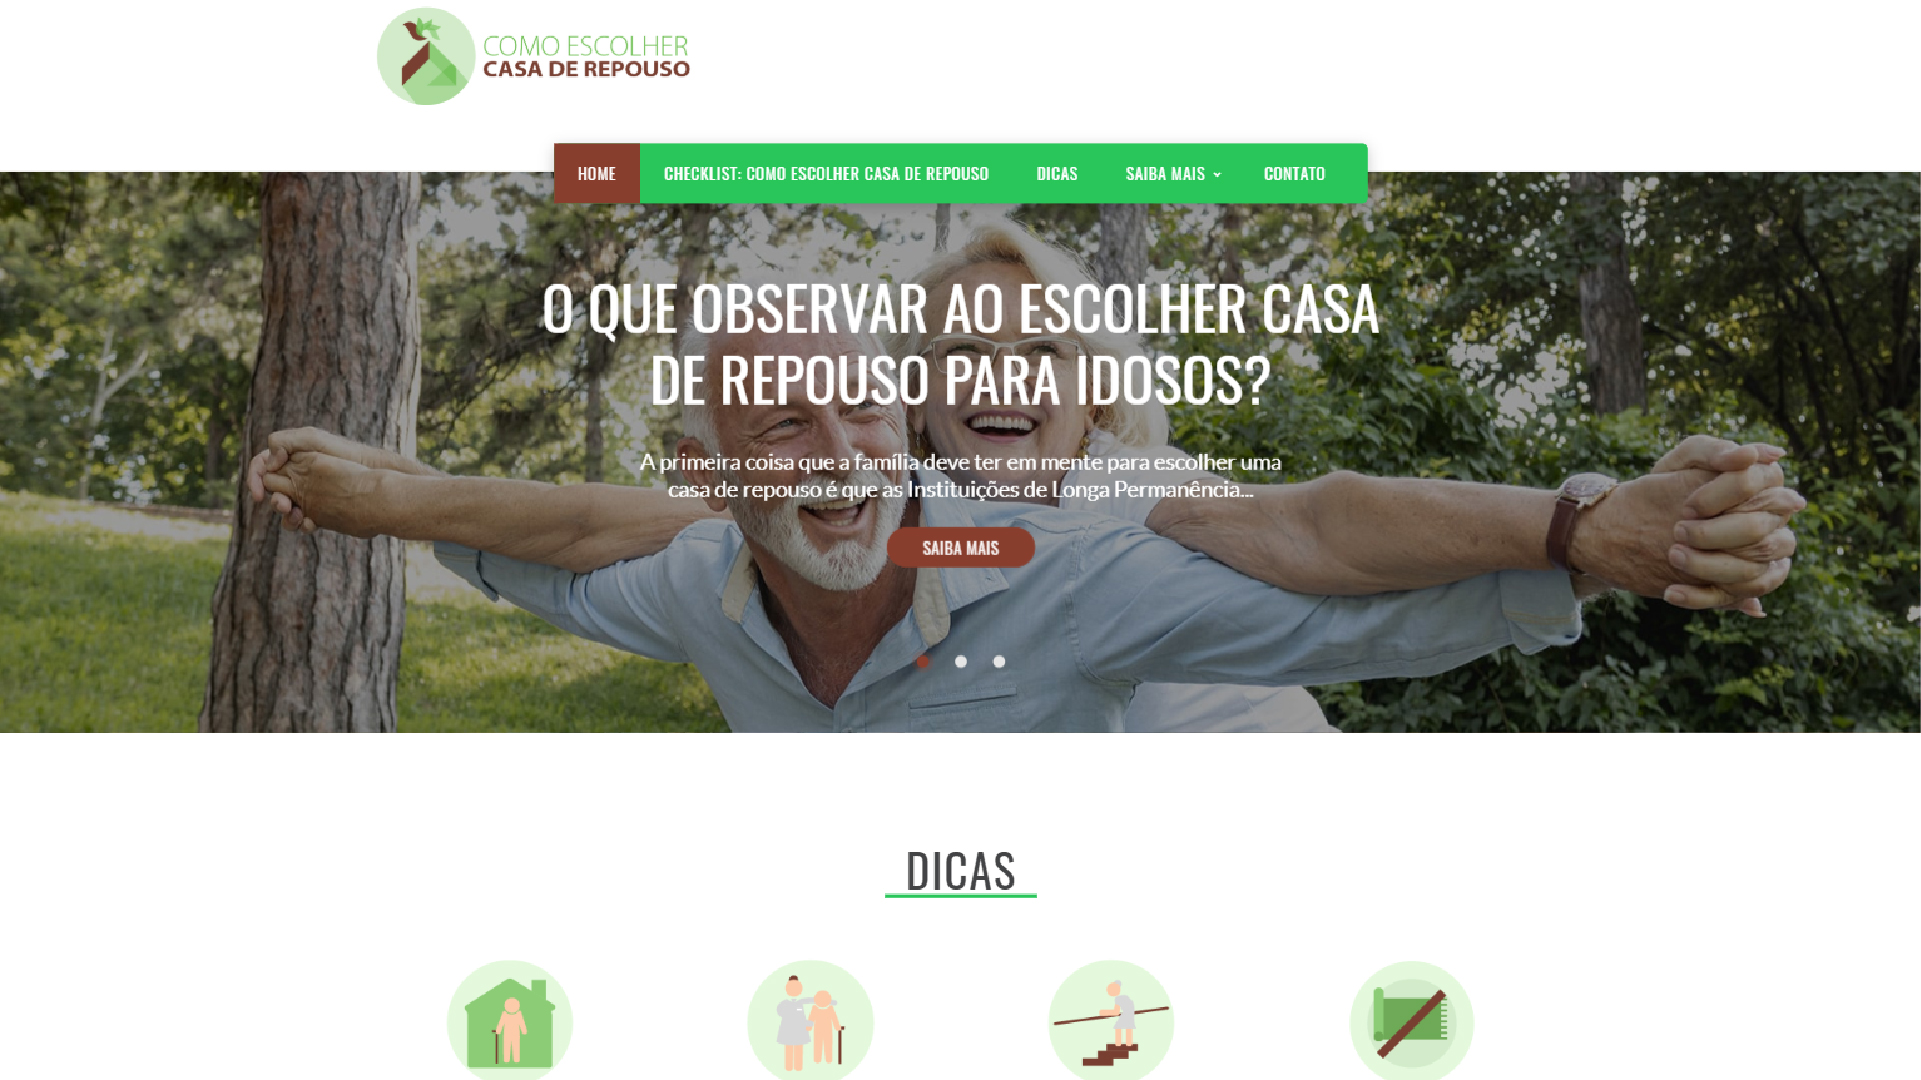
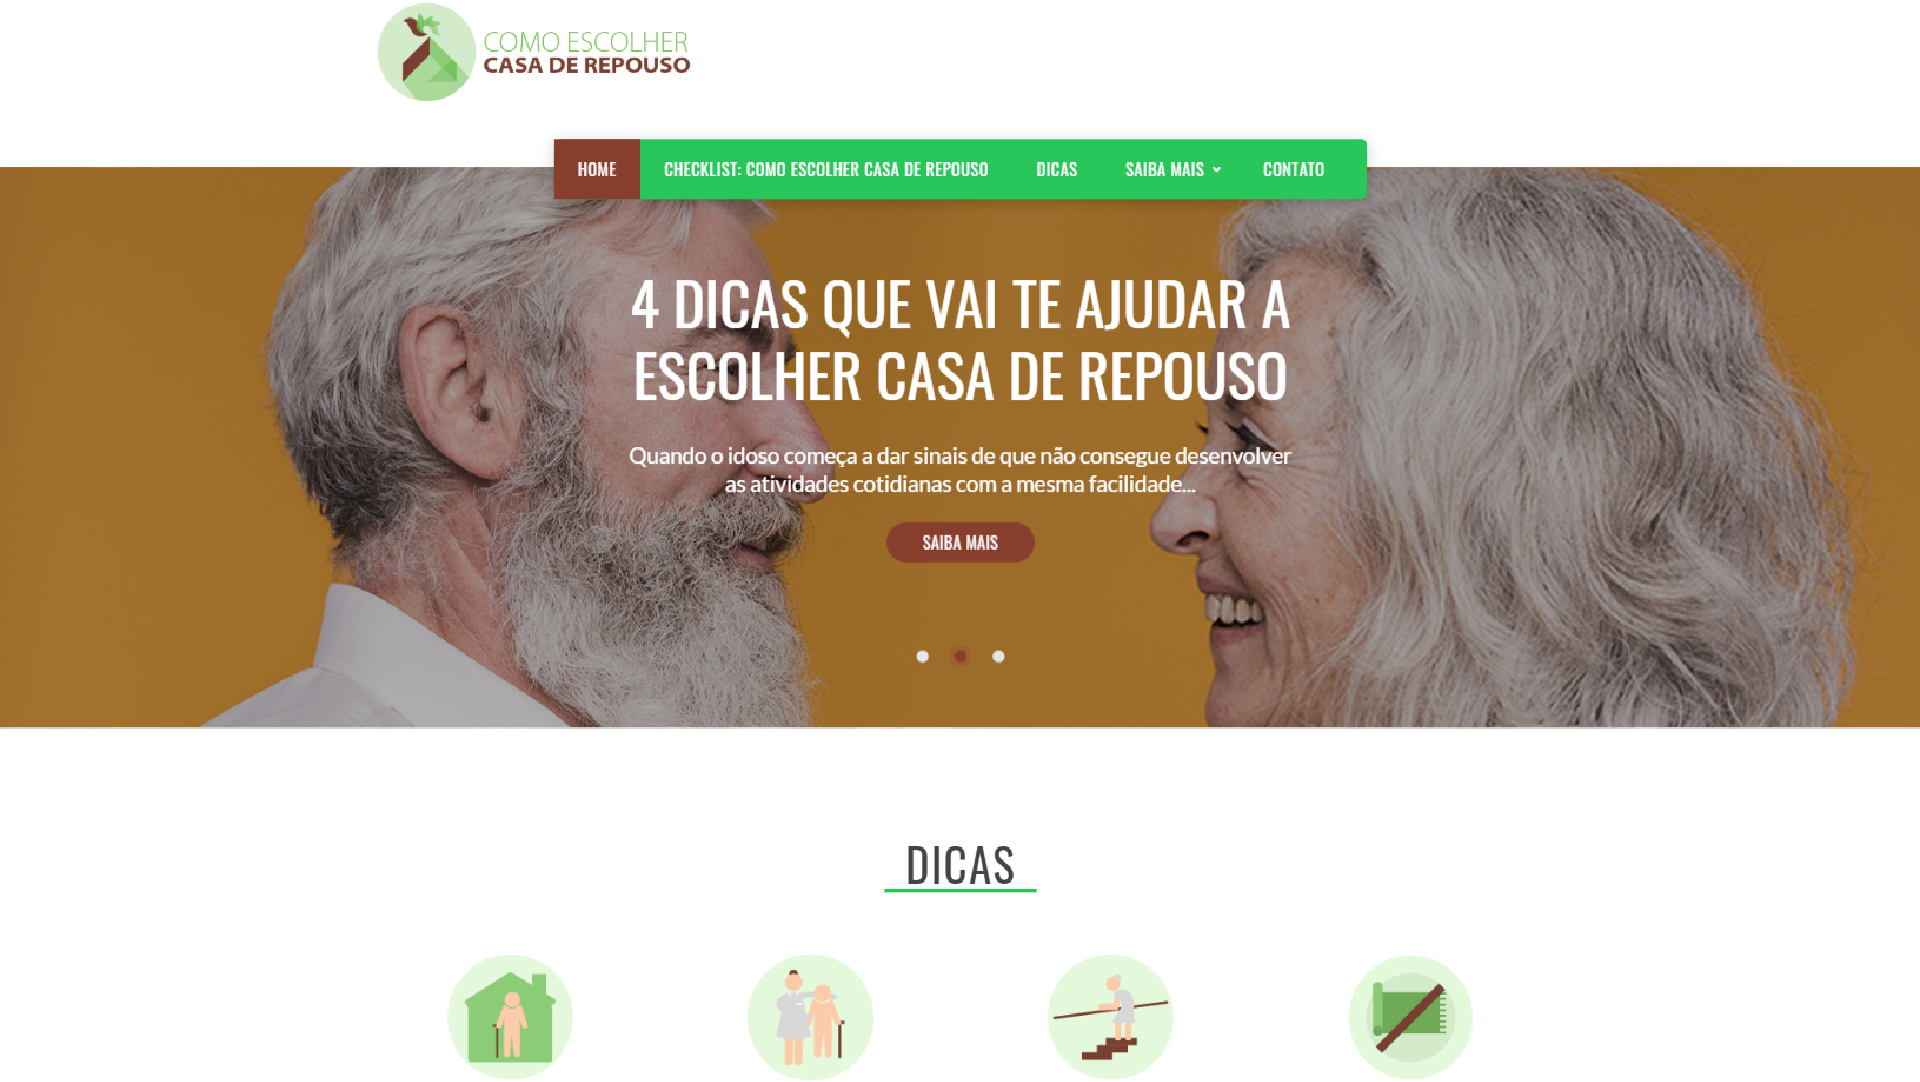
Add casa de repouso

diff --git a/page/start.html b/page/start.html
@@ -1,5 +1,5 @@
 <!DOCTYPE html>
-<html lang="en">
+<html lang="pt-br">
 <head>
     <link rel="stylesheet" href="../css/bootstrap.css">
     <link rel="stylesheet" href="../css/bootstrap-grid.css">
@@ -235,7 +235,7 @@
                         <div class="work clearfix">
                             <div class="workText">
                                 <h1>Grupo Bravo Te</h1>
-                                <a href="#"><h5>Visualizar</h5></a>
+                                <a href="http://bravo-te.starshine.com.br/" target="_black"><h5>Visualizar</h5></a>
                             <div class="underline"></div>
                         </div>
                         <ul>
@@ -246,14 +246,14 @@
                     <div class="project2 mt-5">
                         <div class="work clearfix">
                             <div class="workText">
-                                <h1>Artigo WordPress</h1>
-                                <a href="#"><h5>Visualizar</h5></a>
+                                <h1>Como escolher uma <br>casa de repouso</h1>
+                                <a href="http://escolhercasaderepouso.com.br/"><h5>Visualizar</h5></a>
                             <div class="underline"></div>
                         </div>
                         <ul>
-                            <li><a href="#"><img src="" alt=""></a></li>
+                            <li><a href="#"><img src="https://github.githubassets.com/images/modules/logos_page/GitHub-Mark.png" alt="" class="img-fluid"></a></li>
                         </ul>
-                        <img src="../img/artigo.JPG" alt="" class="workImg img-fluid">
+                        <img src="../img/casa.JPG" alt="" class="workImg img-fluid">
                     </div>
 <!-- 
                     <div class="project3 mt-5">

diff --git a/css/start.css b/css/start.css
@@ -365,7 +365,7 @@ a{
     color: #a4081f;
 }
 .project2 .work > .workText a{
-    color: #FFBB00;
+    color: #29c65a;
 }
 .project1 .work > .workText a h5{
     font-weight: 600;
@@ -373,14 +373,21 @@ a{
 }
 .project2 .work > .workText a h5{
     font-weight: 600;
-    color: red;
+    color: #9a6a28;
 }
 .project2 .work > .workText h1{
-    color: #FFBB00;
+    color: #29c65a;
 }
 .project1 .work > .workText > .underline{
     display: block;
     background: #a4081f;
+    height: 3px;
+    width: 61px;
+    margin-top: 5px;
+}
+.project2 .work > .workText > .underline{
+    display: block;
+    background: #9a6a28;
     height: 3px;
     width: 61px;
     margin-top: 5px;
